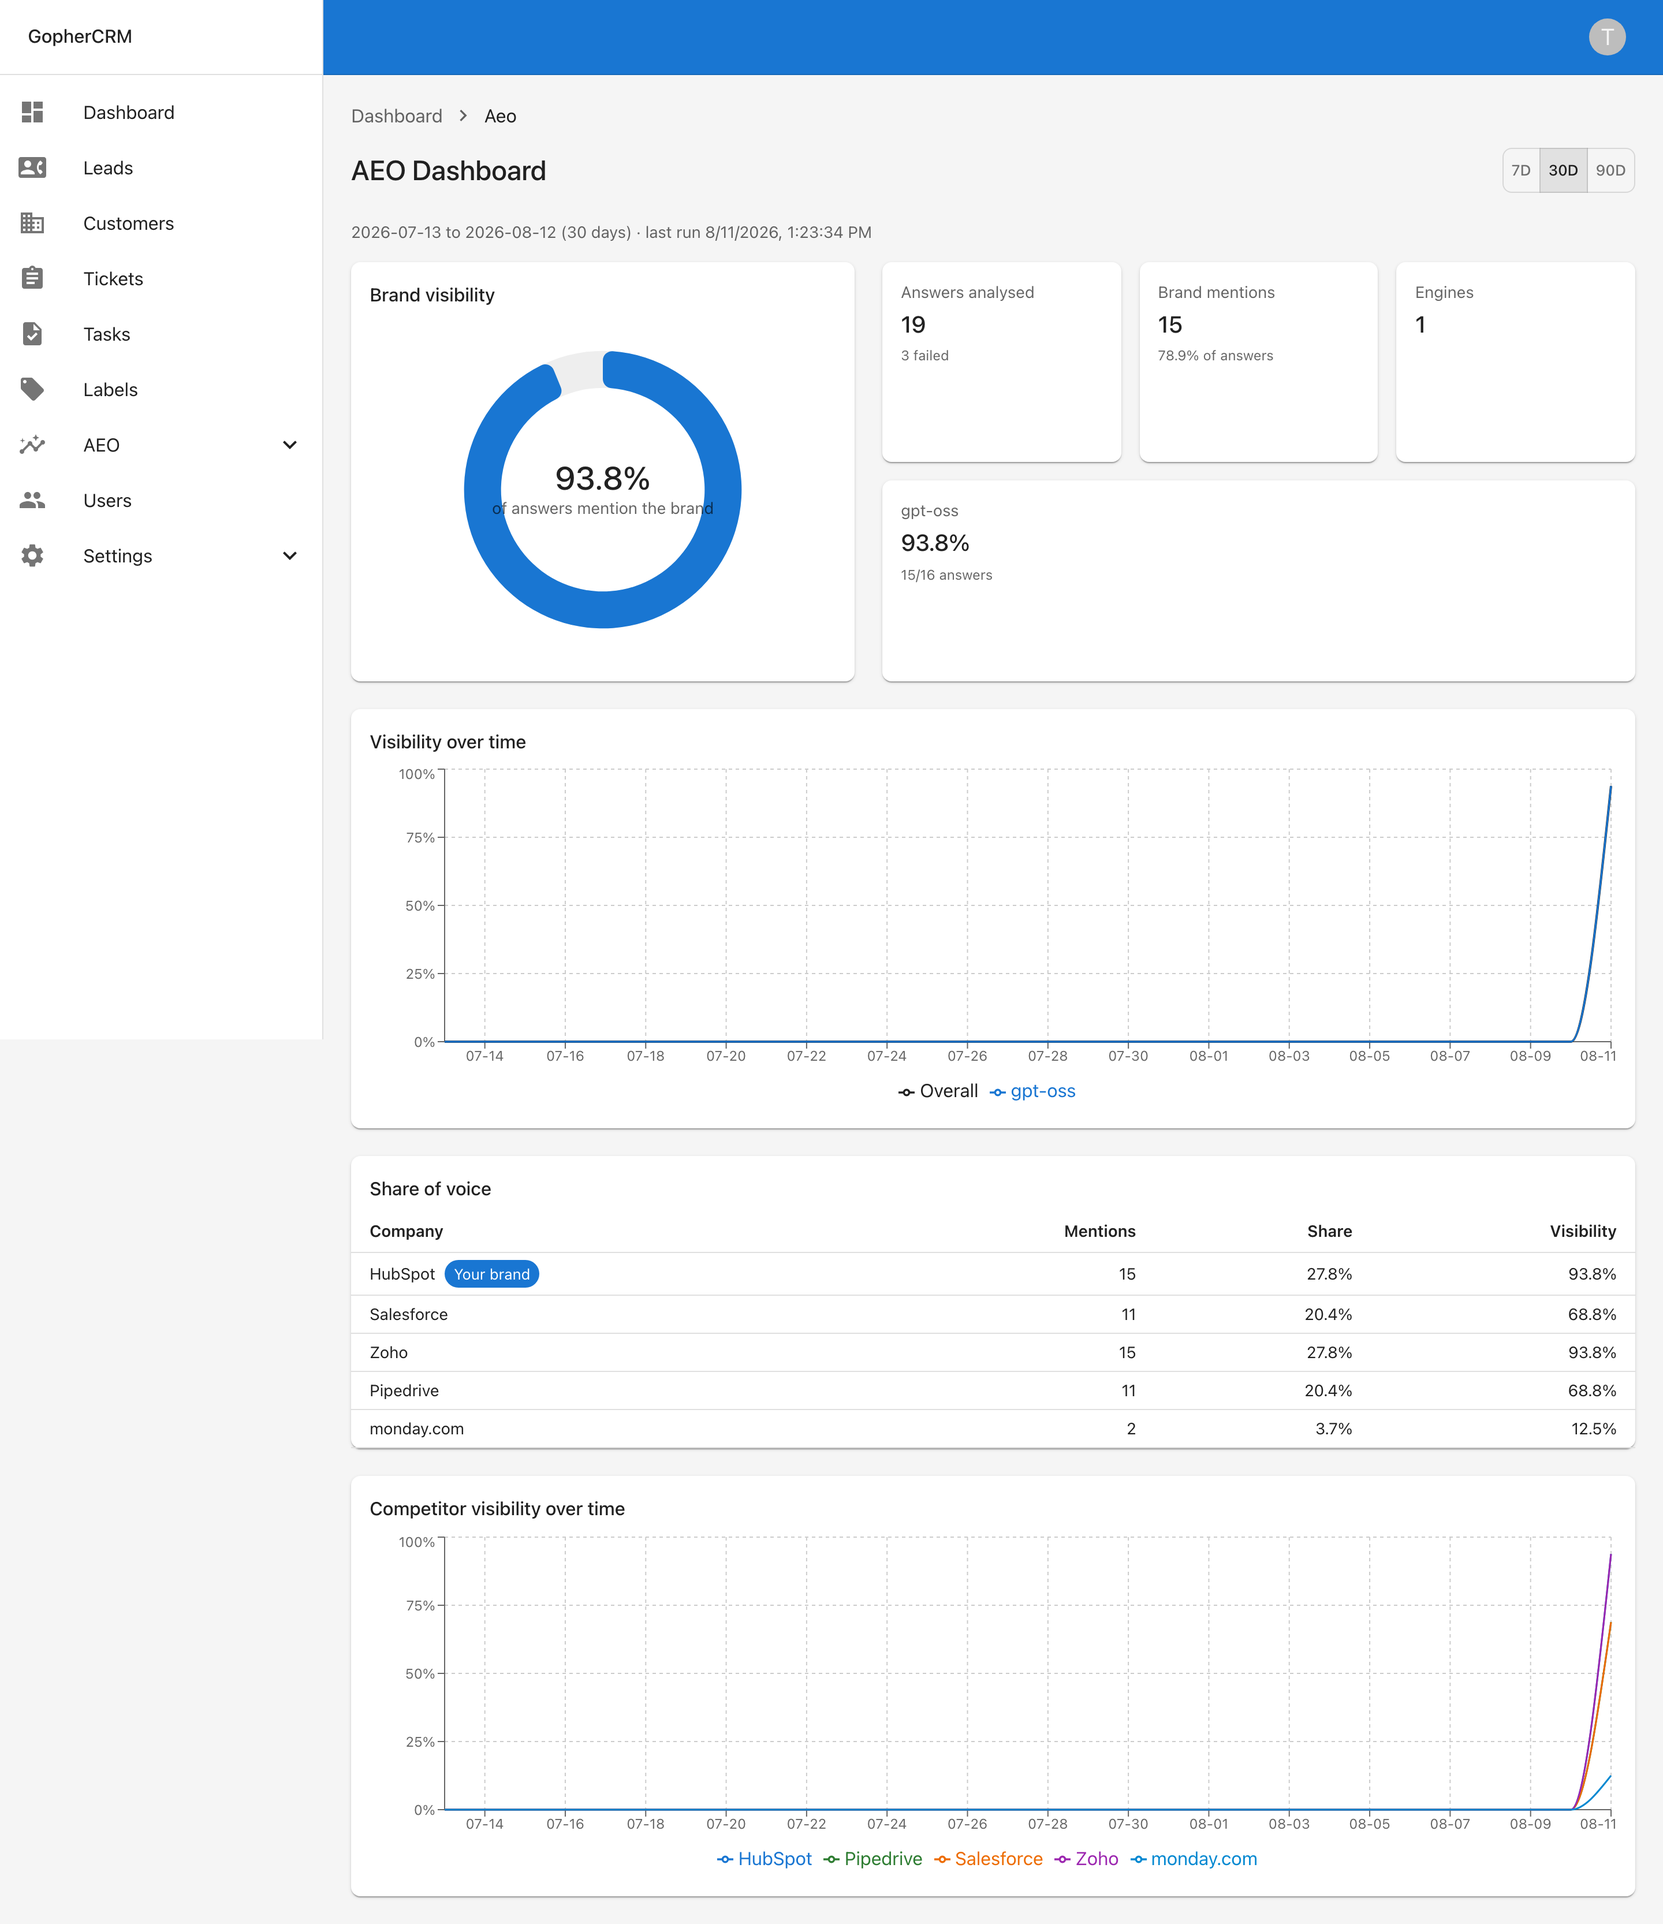
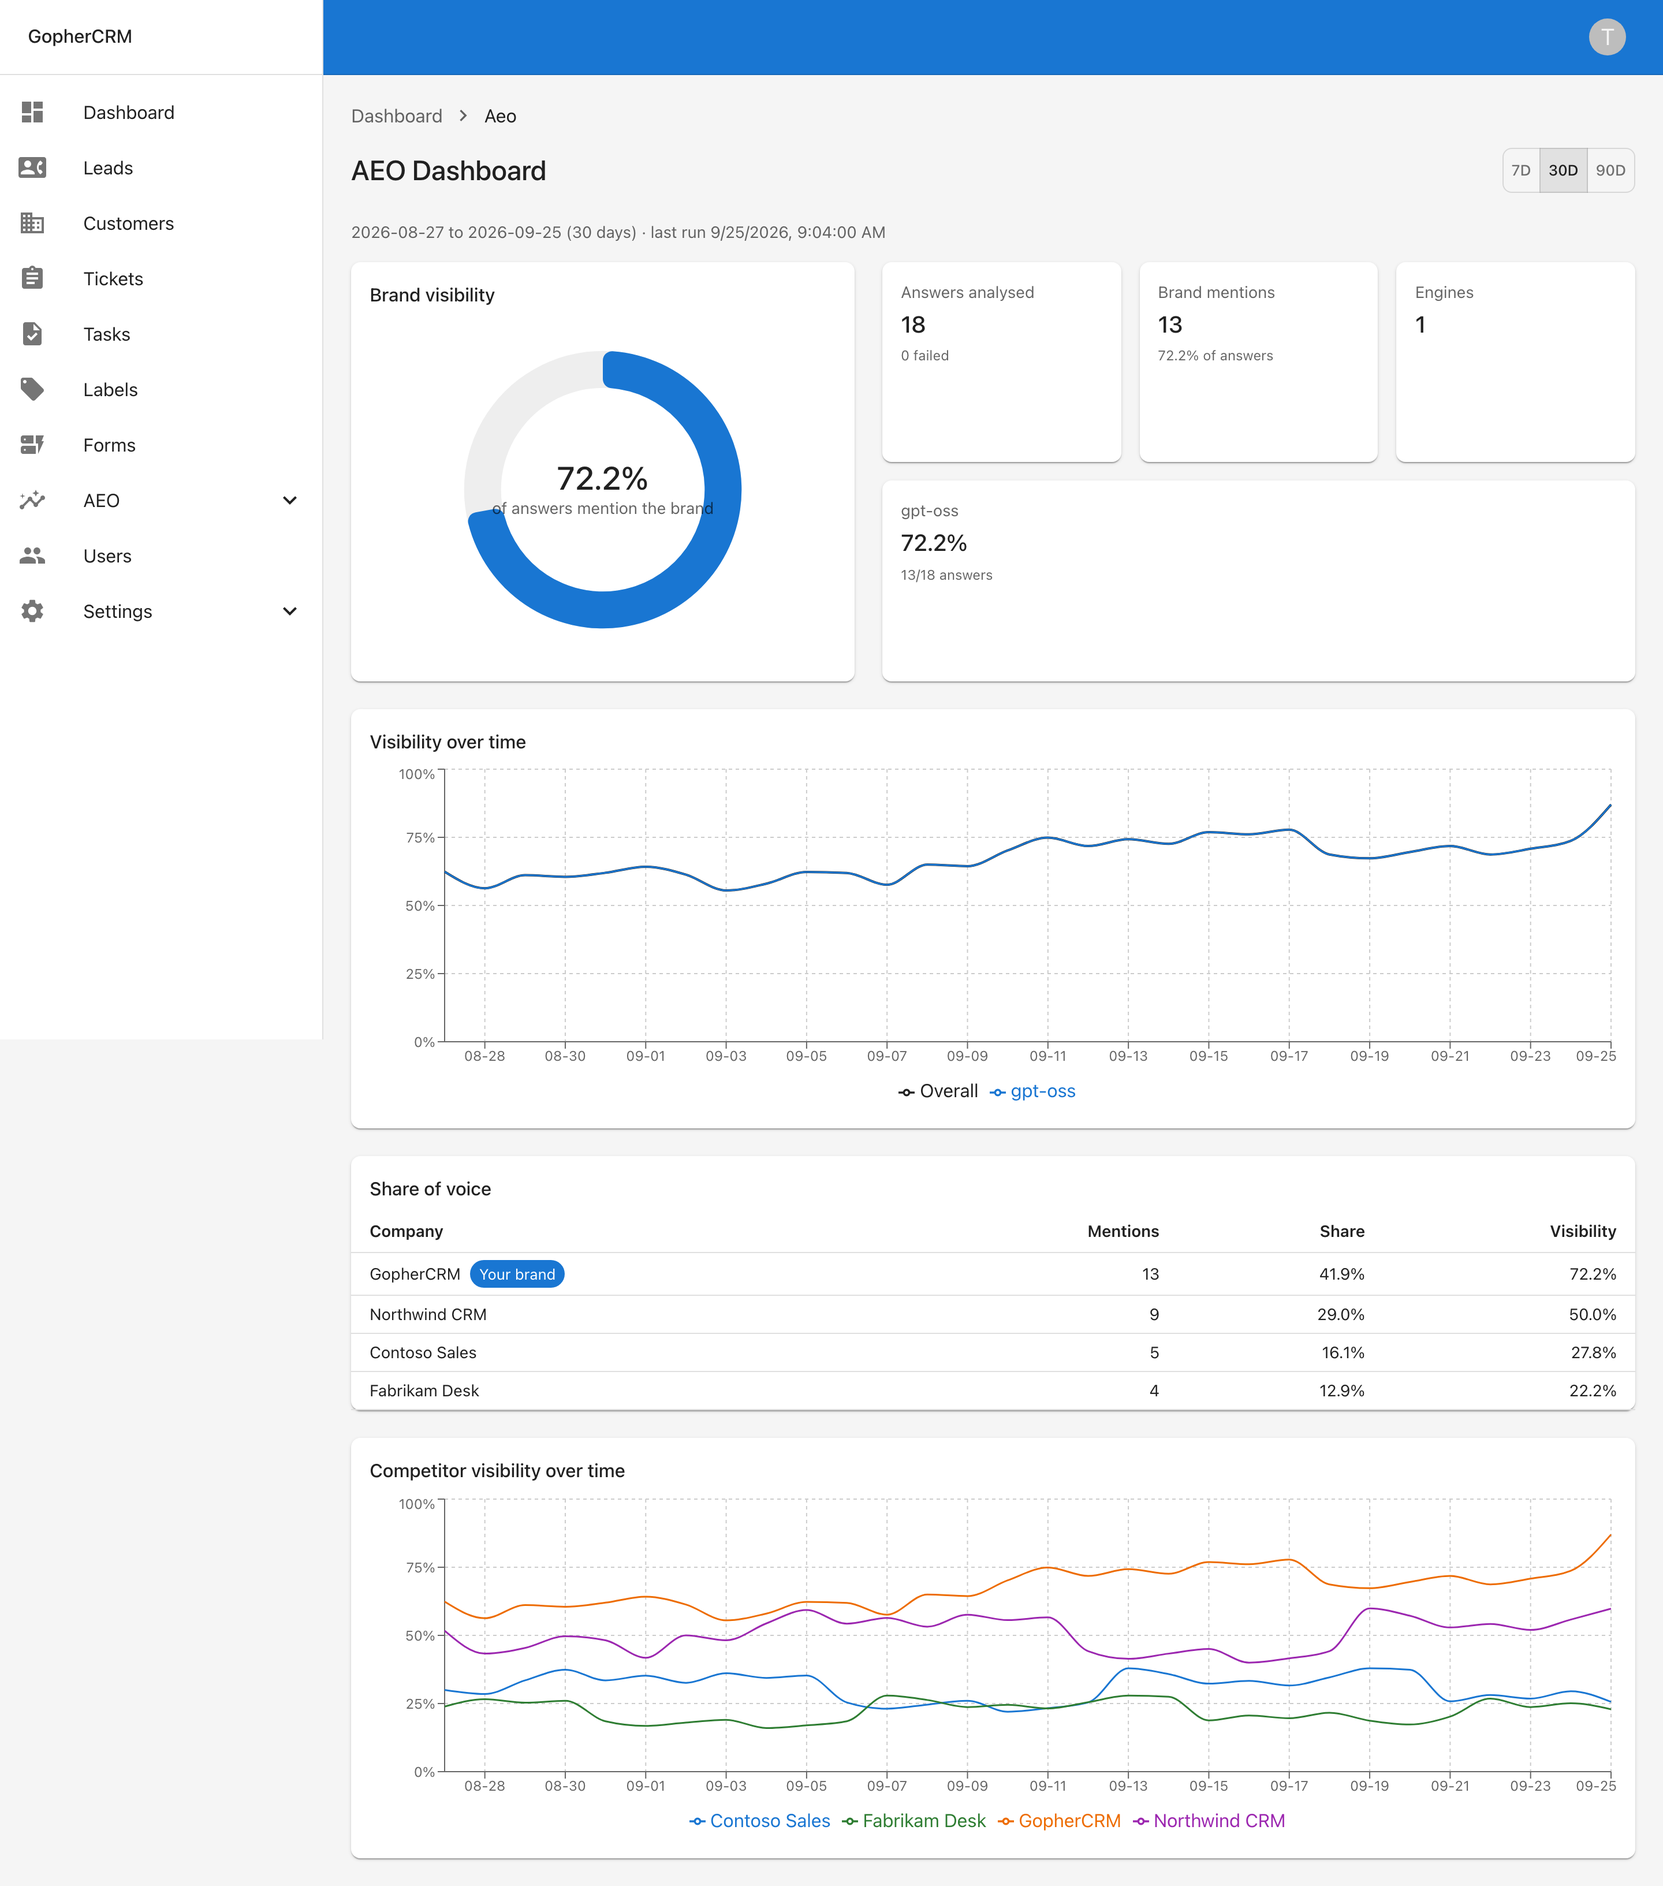
docs(aeo): capture the AEO screenshots from demo data with GopherCRM as the brand
The five AEO captures photographed whatever brand profile the local backend
held, which put a real vendor's name, domain and aliases into the published
images. The suite now answers the AEO API from fixed demo data: GopherCRM as
the tracked brand, fictional competitors on reserved .example domains, six
prompts and three runs on one self-hosted engine. The values follow the API's
units (percentages in 0..100, "YYYY-MM-DD" days). The captures are
reproducible and need neither provider credit nor a seeded run.

The screenshot config honours E2E_UI_PORT like the e2e config, so the images
can be regenerated with scripts/e2e/run.sh on free ports against the e2e
database.

diff --git a/gocrm-ui/e2e/screenshots/helpers/aeo-fixtures.ts b/gocrm-ui/e2e/screenshots/helpers/aeo-fixtures.ts
@@ -1,0 +1,226 @@
+import { Page, Route } from '@playwright/test';
+
+/**
+ * Mock AEO data for the documentation captures.
+ *
+ * A real AEO run spends provider credit, takes minutes and photographs whatever
+ * brand happens to be configured, so the AEO captures are taken against this
+ * fixed data instead: GopherCRM tracking its own visibility against fictional
+ * competitors on reserved `.example` domains. Every AEO API call the pages make
+ * is answered here; everything else (login, navigation, configuration keys)
+ * still goes to the real backend.
+ *
+ * Values come from a fixed formula, so re-running the suite produces the same
+ * images apart from dates, which are relative to the capture day. Shapes and
+ * units follow internal/models/aeo.go: every rate is a percentage in 0..100
+ * with one decimal, and days and ranges are "YYYY-MM-DD".
+ */
+
+const BRAND = 'GopherCRM';
+const COMPETITORS = [
+  { name: 'Northwind CRM', aliases: ['Northwind'], domain: 'northwind-crm.example' },
+  { name: 'Contoso Sales', aliases: [], domain: 'contoso-sales.example' },
+  { name: 'Fabrikam Desk', aliases: ['Fabrikam'], domain: 'fabrikam-desk.example' },
+];
+const ENGINE = { provider: 'gpt-oss', model: 'openai/gpt-oss-20b' };
+
+const DAY_MS = 24 * 60 * 60 * 1000;
+const now = new Date();
+const daysAgo = (days: number, hour = 6) => {
+  const date = new Date(now.getTime() - days * DAY_MS);
+  date.setUTCHours(hour, 0, 0, 0);
+  return date;
+};
+const isoDay = (date: Date) => date.toISOString().slice(0, 10);
+
+/** Deterministic 0..1 wobble so series look measured rather than flat. */
+const wobble = (seed: number) => (Math.sin(seed * 12.9898) * 43758.5453) % 1;
+/** A 0..1 ratio as the API reports it: a percentage with one decimal. */
+const pct = (ratio: number) => Math.round(ratio * 1000) / 10;
+
+const profile = {
+  id: 1,
+  brand_name: BRAND,
+  description: 'Open-source CRM written in Go, with a React front end: leads, customers, tickets, tasks and embeddable web forms.',
+  brand_aliases: ['Gopher CRM'],
+  owned_domains: ['gophercrm.example'],
+  competitors: COMPETITORS,
+};
+
+const providers = [
+  { name: 'anthropic', model: 'claude-opus-5', configured: false },
+  { name: 'openai', model: 'gpt-4o-mini', configured: false },
+  { name: 'gemini', model: 'gemini-flash-latest', configured: false },
+  { name: 'kimi', model: 'moonshot-v1-8k', configured: false },
+  { name: 'perplexity', model: 'sonar', configured: false },
+  { name: ENGINE.provider, model: ENGINE.model, configured: true },
+];
+
+const runs = [3, 2, 1].map((n) => ({
+  id: n,
+  trigger: n === 3 ? 'manual' : 'scheduled',
+  status: 'completed',
+  started_at: daysAgo(3 - n).toISOString(),
+  completed_at: new Date(daysAgo(3 - n).getTime() + 4 * 60 * 1000).toISOString(),
+  total_queries: 6,
+  failed_queries: 0,
+}));
+
+const promptTexts = [
+  'What is a good open-source CRM written in Go?',
+  'Which self-hosted CRM has built-in support ticketing?',
+  'Best CRM with embeddable web forms and double opt-in',
+  'Lightweight CRM for a small agency with GDPR erasure',
+  'Open-source alternatives to hosted sales CRMs',
+  'CRM with an API-key authenticated REST API',
+];
+const promptVisibility = [1, 2 / 3, 2 / 3, 1, 1 / 3, 2 / 3];
+
+const prompts = promptTexts.map((text, index) => ({
+  id: index + 1,
+  text,
+  is_active: index !== 4,
+  created_at: daysAgo(20).toISOString(),
+  visibility: pct(promptVisibility[index]),
+  answer_count: 3,
+  mention_count: Math.round(promptVisibility[index] * 3),
+  last_run_at: runs[0].completed_at,
+}));
+
+const answerTexts = [
+  `For a CRM written in Go, **GopherCRM** is the most complete open-source option: a Gin and GORM backend with a React front end, covering leads, customers, tickets and tasks. It runs as a single binary against MySQL or MariaDB.
+
+Other options people compare it with:
+
+1. **Northwind CRM**: a hosted CRM with a strong sales pipeline, but not self-hostable.
+2. **Fabrikam Desk**: focused on support ticketing rather than sales.
+
+If you want to own your data and extend the code, GopherCRM is the one to start with (see gophercrm.example/docs).`,
+  `Several CRMs fit that description. **Northwind CRM** and **Contoso Sales** are the best-known hosted products. For a self-hosted, Go-based option, **GopherCRM** covers the same core entities with role-based access and an API.
+
+Sources: https://gophercrm.example/features, https://northwind-crm.example/pricing`,
+  `Most Go developers looking for a CRM end up comparing a few projects. **GopherCRM** stands out for its layered architecture and test coverage, while **Fabrikam Desk** is lighter but ticket-only.
+
+See https://gophercrm.example/docs/architecture for a walkthrough.`,
+];
+
+const answers = runs.map((run, index) => {
+  const text = answerTexts[index];
+  const mentioned = text.includes(BRAND);
+  const citations = Array.from(text.matchAll(/https?:\/\/([a-z0-9.-]+)\S*/g)).map((match, n) => ({
+    id: index * 10 + n + 1,
+    answer_id: index + 1,
+    url: match[0].replace(/[),.]+$/, ''),
+    domain: match[1],
+    is_owned: match[1] === 'gophercrm.example',
+    competitor_name: COMPETITORS.find((c) => c.domain === match[1])?.name,
+  }));
+  return {
+    id: index + 1,
+    run_id: run.id,
+    prompt_id: 1,
+    provider: ENGINE.provider,
+    model: ENGINE.model,
+    attempt: 1,
+    answer_text: text,
+    brand_mentioned: mentioned,
+    first_mention_pos: mentioned ? text.indexOf(BRAND) : -1,
+    competitor_mentions: Object.fromEntries(
+      COMPETITORS.filter((c) => text.includes(c.name)).map((c) => [c.name, 1])
+    ),
+    latency_ms: 8200 + index * 1300,
+    citations,
+    created_at: run.completed_at,
+  };
+});
+
+function dashboard(days: number) {
+  const window = Math.min(days, 30);
+  const timeline = Array.from({ length: window }, (_, i) => {
+    const day = daysAgo(window - 1 - i);
+    const overall = pct(0.55 + 0.25 * (i / window) + 0.08 * wobble(i + 1));
+    return { day: isoDay(day), overall, by_provider: { [ENGINE.provider]: overall } };
+  });
+  const competitorTimeline = timeline.map((point, i) => ({
+    day: point.day,
+    by_company: {
+      [BRAND]: point.overall,
+      'Northwind CRM': pct(0.5 + 0.1 * wobble(i + 7)),
+      'Contoso Sales': pct(0.3 + 0.08 * wobble(i + 13)),
+      'Fabrikam Desk': pct(0.22 + 0.06 * wobble(i + 19)),
+    },
+  }));
+  const shares = [
+    { company: BRAND, is_brand: true, mentions: 13, visibility: pct(13 / 18) },
+    { company: 'Northwind CRM', is_brand: false, mentions: 9, visibility: pct(9 / 18) },
+    { company: 'Contoso Sales', is_brand: false, mentions: 5, visibility: pct(5 / 18) },
+    { company: 'Fabrikam Desk', is_brand: false, mentions: 4, visibility: pct(4 / 18) },
+  ];
+  const totalMentions = shares.reduce((sum, s) => sum + s.mentions, 0);
+  return {
+    from: isoDay(daysAgo(days - 1)),
+    to: isoDay(now),
+    days,
+    total_answers: 18,
+    failed_answers: 0,
+    brand_mentions: 13,
+    visibility: pct(13 / 18),
+    by_provider: [{ provider: ENGINE.provider, answers: 18, mentions: 13, visibility: pct(13 / 18) }],
+    timeline,
+    share_of_voice: shares.map((s) => ({ ...s, share: pct(s.mentions / totalMentions) })),
+    competitor_timeline: competitorTimeline,
+    last_run_at: runs[0].completed_at,
+  };
+}
+
+function citationsReport(days: number) {
+  return {
+    from: isoDay(daysAgo(days - 1)),
+    to: isoDay(now),
+    total_answers: 18,
+    total_citations: 14,
+    answers_with_citations: 9,
+    owned_citation_rate: pct(0.389),
+    by_company: [
+      { company: BRAND, is_brand: true, citations: 7, citation_rate: pct(0.389), with_brand_mention: 7, brand_mention_rate: pct(1) },
+      { company: 'Northwind CRM', is_brand: false, citations: 4, citation_rate: pct(0.222), with_brand_mention: 3, brand_mention_rate: pct(0.75) },
+      { company: 'Contoso Sales', is_brand: false, citations: 2, citation_rate: pct(0.111), with_brand_mention: 1, brand_mention_rate: pct(0.5) },
+      { company: 'Fabrikam Desk', is_brand: false, citations: 1, citation_rate: pct(0.056), with_brand_mention: 1, brand_mention_rate: pct(1) },
+    ],
+    top_domains: [
+      { domain: 'gophercrm.example', company: BRAND, is_owned: true, citations: 7, citation_rate: pct(0.389), with_brand_mention: 7, brand_mention_rate: pct(1) },
+      { domain: 'northwind-crm.example', company: 'Northwind CRM', is_owned: false, citations: 4, citation_rate: pct(0.222), with_brand_mention: 3, brand_mention_rate: pct(0.75) },
+      { domain: 'contoso-sales.example', company: 'Contoso Sales', is_owned: false, citations: 2, citation_rate: pct(0.111), with_brand_mention: 1, brand_mention_rate: pct(0.5) },
+      { domain: 'fabrikam-desk.example', company: 'Fabrikam Desk', is_owned: false, citations: 1, citation_rate: pct(0.056), with_brand_mention: 1, brand_mention_rate: pct(1) },
+    ],
+  };
+}
+
+const ok = (route: Route, data: unknown) =>
+  route.fulfill({
+    status: 200,
+    contentType: 'application/json',
+    body: JSON.stringify({ success: true, data }),
+  });
+
+/** Answers every AEO API call from the fixtures above. */
+export async function mockAeoApi(page: Page): Promise<void> {
+  await page.route(/\/api\/v1\/aeo\//, (route) => {
+    const url = new URL(route.request().url());
+    const path = url.pathname.replace(/^.*\/api\/v1\/aeo/, '');
+    const days = Number(url.searchParams.get('days') ?? 30);
+
+    if (route.request().method() !== 'GET') {
+      // The captures never save or run anything; refuse loudly if one tries.
+      return route.fulfill({ status: 405, body: 'screenshot fixtures are read-only' });
+    }
+    if (path === '/profile') return ok(route, profile);
+    if (path === '/providers') return ok(route, providers);
+    if (path === '/prompts') return ok(route, prompts);
+    if (/^\/prompts\/\d+\/answers$/.test(path)) return ok(route, answers);
+    if (path === '/runs') return ok(route, runs);
+    if (path === '/dashboard') return ok(route, dashboard(days));
+    if (path === '/citations') return ok(route, citationsReport(days));
+    return route.fulfill({ status: 404, body: `no screenshot fixture for ${path}` });
+  });
+}

diff --git a/gocrm-ui/playwright.config.screenshots.ts b/gocrm-ui/playwright.config.screenshots.ts
@@ -1,11 +1,18 @@
 import { defineConfig, devices } from '@playwright/test';
 
+/* Same convention as playwright.config.ts: scripts/e2e/run.sh sets E2E_UI_PORT
+ * and the run starts its own Vite server there, pointed at its own backend. */
+const e2eUiPort = process.env.E2E_UI_PORT;
+const uiBaseURL = `http://localhost:${e2eUiPort ?? '5173'}`;
+
 /**
  * Documentation screenshot suite.
  *
  * Walks every user-facing screen and saves retina captures to
  * ../docs/screenshots/<area>/. Not part of the regular E2E run:
- * invoke with `npm run screenshots` (backend must be up, same as E2E).
+ * invoke with `npm run screenshots` (backend must be up, same as E2E), or
+ * against a fresh e2e database and free ports with
+ * `scripts/e2e/run.sh --config=playwright.config.screenshots.ts [specs]`.
  */
 export default defineConfig({
   testDir: './e2e/screenshots',
@@ -18,7 +25,7 @@ export default defineConfig({
   reporter: [['list']],
   timeout: 60 * 1000,
   use: {
-    baseURL: 'http://localhost:5173',
+    baseURL: uiBaseURL,
     trace: 'off',
     screenshot: 'off',
     video: 'off',
@@ -37,9 +44,9 @@ export default defineConfig({
     },
   ],
   webServer: {
-    command: 'npm run dev',
-    url: 'http://localhost:5173',
-    reuseExistingServer: true,
+    command: e2eUiPort ? `npm run dev -- --port ${e2eUiPort} --strictPort` : 'npm run dev',
+    url: uiBaseURL,
+    reuseExistingServer: !e2eUiPort,
     stdout: 'ignore',
     stderr: 'pipe',
     timeout: 120 * 1000,

diff --git a/gocrm-ui/e2e/screenshots/10-aeo.spec.ts b/gocrm-ui/e2e/screenshots/10-aeo.spec.ts
@@ -1,22 +1,24 @@
 import { test } from '@playwright/test';
 import { capture } from './helpers/capture';
 import { ensureAdminLoggedIn } from './helpers/login';
+import { mockAeoApi } from './helpers/aeo-fixtures';
 
 /**
  * Documentation captures for the AEO section: dashboard metrics, the tracked
  * prompt list with its answer drawer, the citation comparisons and the
  * settings page.
  *
- * Unlike the other areas this suite creates nothing: an AEO run spends real
- * provider credit and takes minutes, so the captures photograph whatever the
- * backend already holds. Seed before running — a brand profile, a handful of
- * prompts and at least one completed run (scripts/aeo_live_smoke.sh walks the
- * whole path) — or the charts will be photographed empty.
+ * Unlike the other areas, the AEO API is answered from fixed fixtures
+ * (helpers/aeo-fixtures.ts): GopherCRM as the tracked brand against fictional
+ * competitors. A real run spends provider credit, takes minutes and would
+ * photograph whatever brand the backend happens to hold. Login, navigation
+ * and the configuration keys still use the real backend.
  */
 test.describe.configure({ mode: 'serial' });
 
 test.describe('AEO documentation screenshots', () => {
   test.beforeEach(async ({ page }) => {
+    await mockAeoApi(page);
     await ensureAdminLoggedIn(page);
   });
 

diff --git a/docs/SCREENSHOTS.md b/docs/SCREENSHOTS.md
@@ -180,10 +180,13 @@ deleted along with their task links; the tasks themselves are untouched.
 ## AEO
 
 Answer-engine visibility tracking; FEATURES.md section 10c. Unlike the other suites, the AEO
-captures photograph whatever data the backend holds — a run spends provider credit and takes
-minutes, so the suite creates nothing. The images below were taken against a demo brand profile
-(a CRM vendor and four competitors) after three runs on a single self-hosted engine; with more engines
-configured, the per-engine cards and timeline series multiply accordingly.
+captures do not use live runs: a run spends provider credit and takes minutes. The suite answers
+the AEO API from fixed demo data (`gocrm-ui/e2e/screenshots/helpers/aeo-fixtures.ts`). That data
+has GopherCRM as the tracked brand, three fictional competitors on reserved `.example` domains,
+six prompts, and three runs on a single self-hosted engine. With more engines configured, the
+per-engine cards and timeline series multiply accordingly. To regenerate only these images, on
+free ports against the e2e database:
+`scripts/e2e/run.sh --config=playwright.config.screenshots.ts e2e/screenshots/10-aeo.spec.ts`.
 
 ![AEO dashboard](screenshots/aeo/aeo-dashboard.png)
 The dashboard at `/aeo`: brand-visibility gauge over the selected window, per-engine summary cards,
